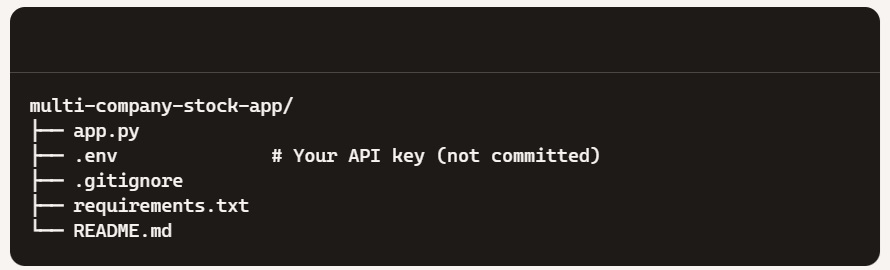
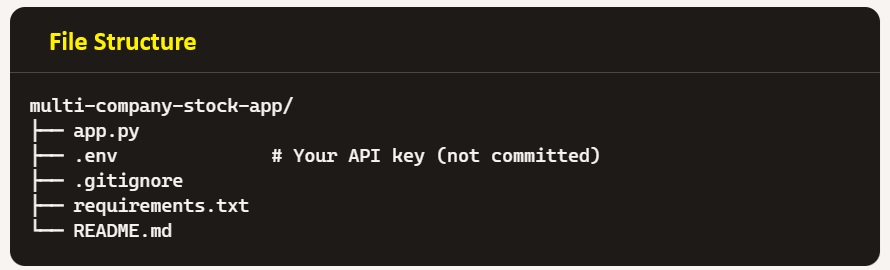
Ok

Changed region(s): [[0.0303, 0.1185, 0.2427, 0.2074]]

diff --git a/Version3/README.md b/Version3/README.md
@@ -57,7 +57,7 @@ Add your API key in Secrets Manager:
     POLYGON_API_KEY = your_actual_polygon_api_key_here
 
 📂 File Structure
-![](image.png)
+Version3/File Structure.jpg
 
 📌 Notes
 You can modify START_DATE and END_DATE in app.py to change the data range.
